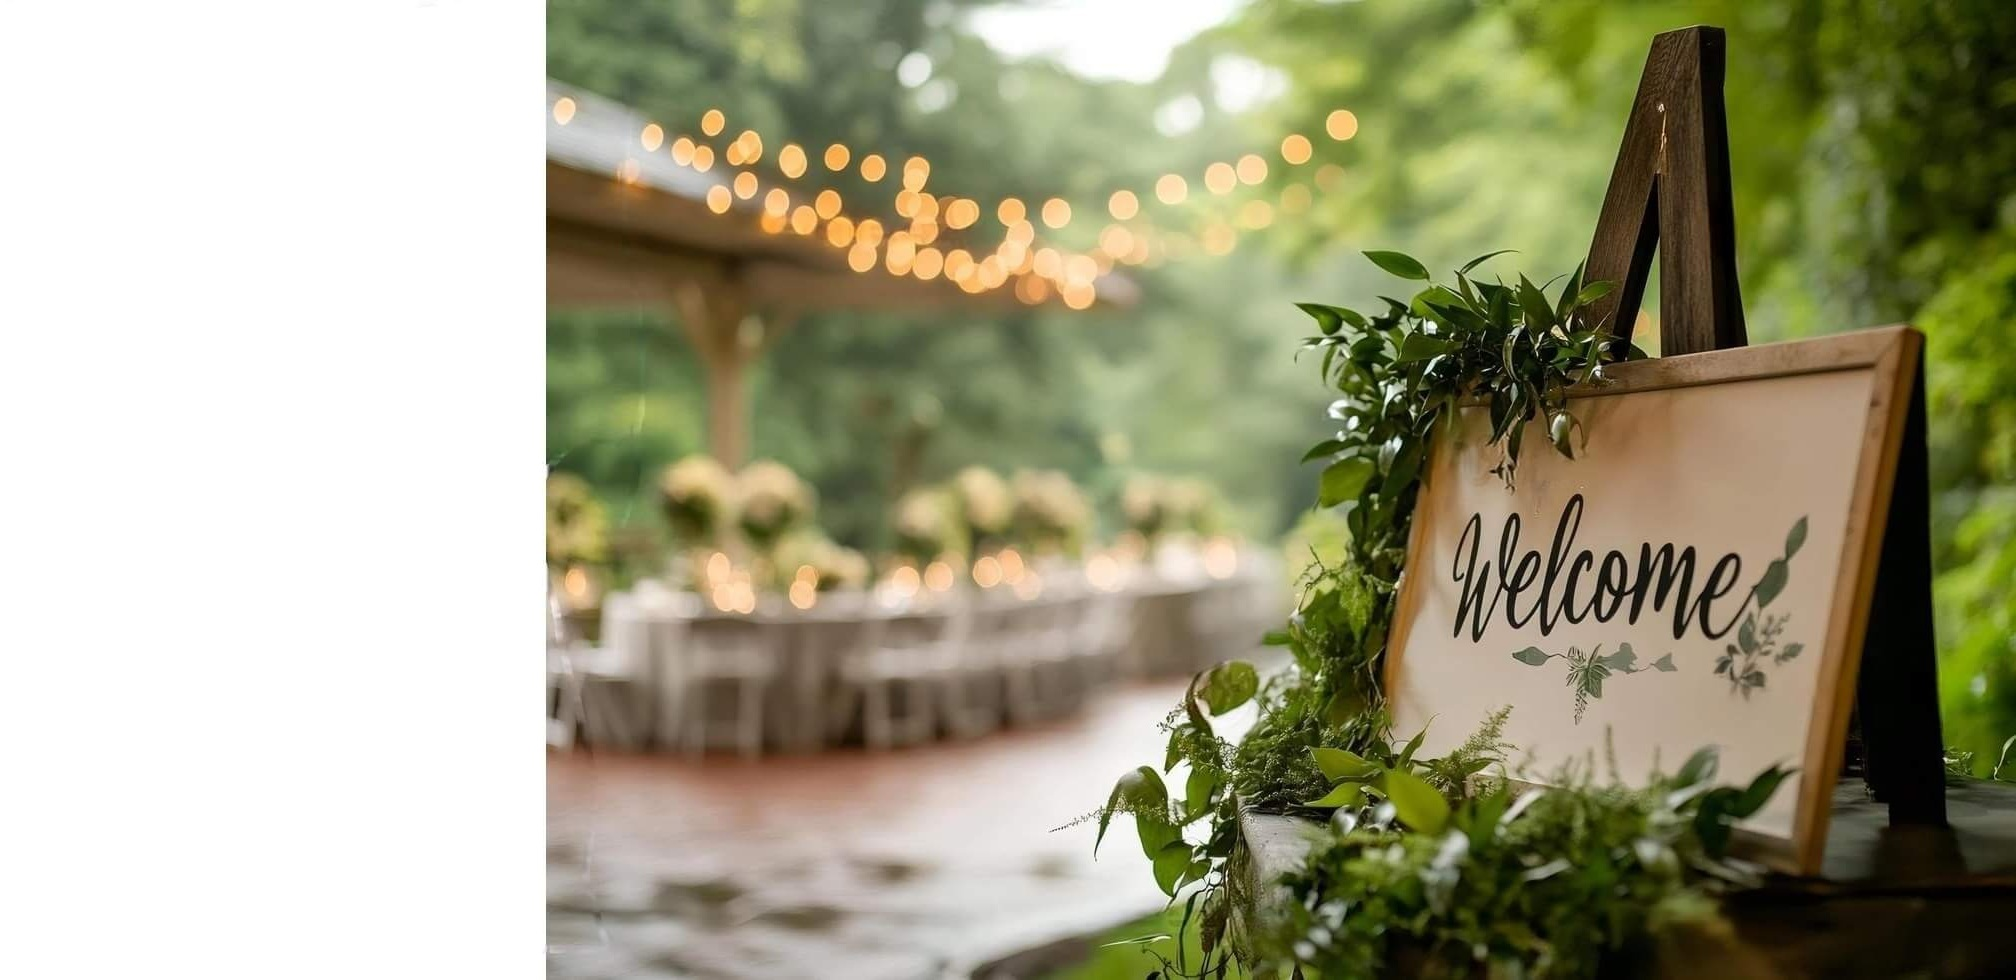
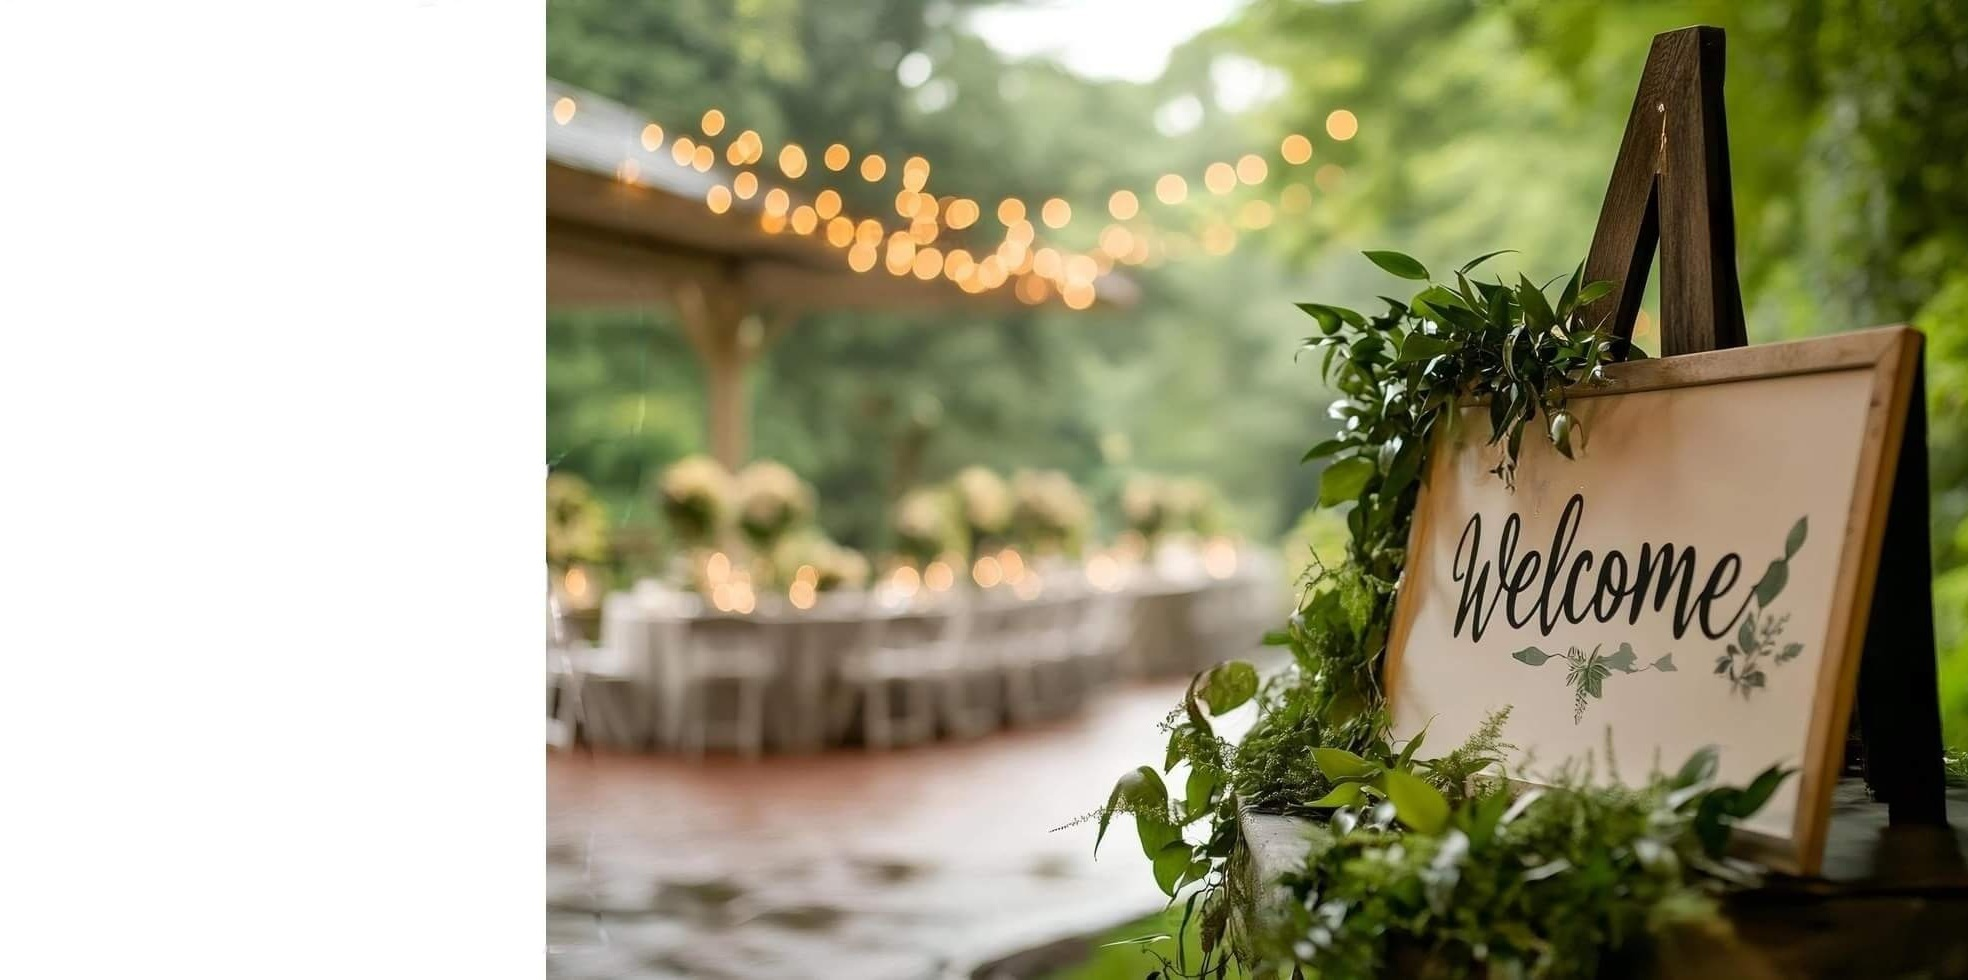
Updated responsive portfolio section

diff --git a/src/components/OurPortfolio.jsx b/src/components/OurPortfolio.jsx
@@ -1,77 +1,32 @@
-import img1 from "../assets/IMG1.jpg";
-import img2 from "../assets/IMG2.jpg";
-import img3 from "../assets/IMG3.jpg";
-import img4 from "../assets/IMG4.jpg";
-import img5 from "../assets/IMG5.jpg";
-import img6 from "../assets/IMG6.jpg"; // New image imported
-
-const portfolioItems = [
-  { name: "Anant Ambani & Radhika Merchant", image: img1, shape: "portrait" },
-  { name: "Saii Vishnu & Megha Akash", image: img2, shape: "landscape" },
-  { name: "Siddharth & Aditi Rao Hydari", image: img3, shape: "portrait" },
-  {
-    name: "Kalidas Jayaram & Tarini Kalingarayar",
-    image: img4,
-    shape: "landscape",
-  },
-  { name: "Vignesh Shivan & Nayanthara", image: img5, shape: "portrait" },
-  { name: "Jagat Desai & Amala Paul", image: img1, shape: "landscape" },
-  { name: "Nikhil Sachdeva & Yarlaleeni", image: img2, shape: "portrait" },
-  { name: "Antony Thatch & Keerthy Suresh", image: img3, shape: "landscape" },
-  {
-    name: "Naga Chaitanya & Sobhita Dhulipala",
-    image: img4,
-    shape: "portrait",
-  },
-  { name: "Praveen & Pragathi", image: img5, shape: "landscape" },
-  { name: "Rajeev & Rukmini", image: img6, shape: "portrait" },
-];
+import ourPortfolioImg from "../assets/OurPortfolio.png";
 
 const OurPortfolio = () => (
   <section
     id="portfolio"
-    className="px-4 md:px-12 py-10 min-h-screen bg-[#f5e5d5] flex flex-col justify-center"
+    className="bg-[#f5e5d5]"
     style={{ fontFamily: "Raleway, sans-serif" }}
   >
-    <div className="text-center mb-10">
-      <h2 className="text-3xl font-bold text-black">Our Portfolio</h2>
-      <p className="mt-2 text-gray-600 text-sm">
+    {/* Header Section */}
+    <div className="text-center px-4 py-8 md:py-10">
+      <h2 className="text-2xl sm:text-3xl md:text-5xl font-bold text-black">
+        Our Portfolio
+      </h2>
+
+      <p className="mt-3 text-gray-600 text-xs sm:text-sm md:text-base max-w-2xl mx-auto leading-relaxed">
         Explore the stories of our beautiful clients, where every image speaks
         volumes.
       </p>
     </div>
 
-    {/* GRID layout */}
-    <div className="grid grid-cols-2 md:grid-cols-4 gap-2">
-      {portfolioItems.map((item, index) => (
-        <div
-          key={index}
-          className={`relative overflow-hidden shadow-md transition-transform duration-200 hover:scale-105
-            ${index === 0 ? "col-span-2 row-span-2" : ""}
-            ${index === 3 ? "col-span-2" : ""}
-            ${index === 5 ? "row-span-2" : ""}
-          `}
-        >
-          {/* Image Container */}
-          <div
-            className={`w-full h-full ${
-              item.shape === "portrait" ? "aspect-[3/4]" : "aspect-[4/3]"
-            }`}
-          >
-            <img
-              src={item.image}
-              alt={item.name}
-              className="w-full h-full object-cover"
-            />
-          </div>
-
-          {/* Overlay with Text */}
-          <div className="absolute bottom-0 bg-black/50 text-white text-xs md:text-sm p-1 md:p-2 w-full text-center font-semibold">
-            {item.name}
-          </div>
-        </div>
-      ))}
-    </div>
+    <div
+      className="w-full h-[40vh] sm:h-[55vh] md:h-[75vh] lg:h-screen bg-[#f5e5d5] bg-blend-multiply"
+      style={{
+        backgroundImage: `url(${ourPortfolioImg})`,
+        backgroundSize: "contain",
+        backgroundPosition: "center",
+        backgroundRepeat: "no-repeat",
+      }}
+    ></div>
   </section>
 );
 

diff --git a/src/App.css b/src/App.css
@@ -1,8 +1,7 @@
 #root {
-  max-width: 1280px;
-  margin: 0 auto;
-  padding: 2rem;
-  text-align: center;
+  width: 100%;
+  margin: 0;
+  padding: 0;
 }
 
 .logo {
@@ -47,4 +46,28 @@
 
 .read-the-docs {
   color: #888;
+}
+
+.greeting-section {
+  background-position: left top, right center;
+
+  background-size: 100% 100%, cover;
+}
+
+/* Tablet */
+@media screen and (max-width: 1024px) {
+  .greeting-section {
+    background-position: left top, center top;
+
+    background-size: 100% 100%, 140%;
+  }
+}
+
+/* Mobile */
+@media screen and (max-width: 768px) {
+  .greeting-section {
+    background-position: left top, center top;
+
+    background-size: 100% 100%, 180%;
+  }
 }

diff --git a/src/components/Greeting.jsx b/src/components/Greeting.jsx
@@ -10,8 +10,7 @@ function AboutSection() {
           radial-gradient(circle at right center, rgb(245 229 213 / 0%) 0%, rgb(245 229 213) 70%),
           url(${welcomeImage})`,
         backgroundSize: "cover",
-        backgroundPosition: "85% center",
-        backgroundAttachment: "fixed",
+        backgroundPosition: "right center",
       }}
     >
       {/* Content */}
